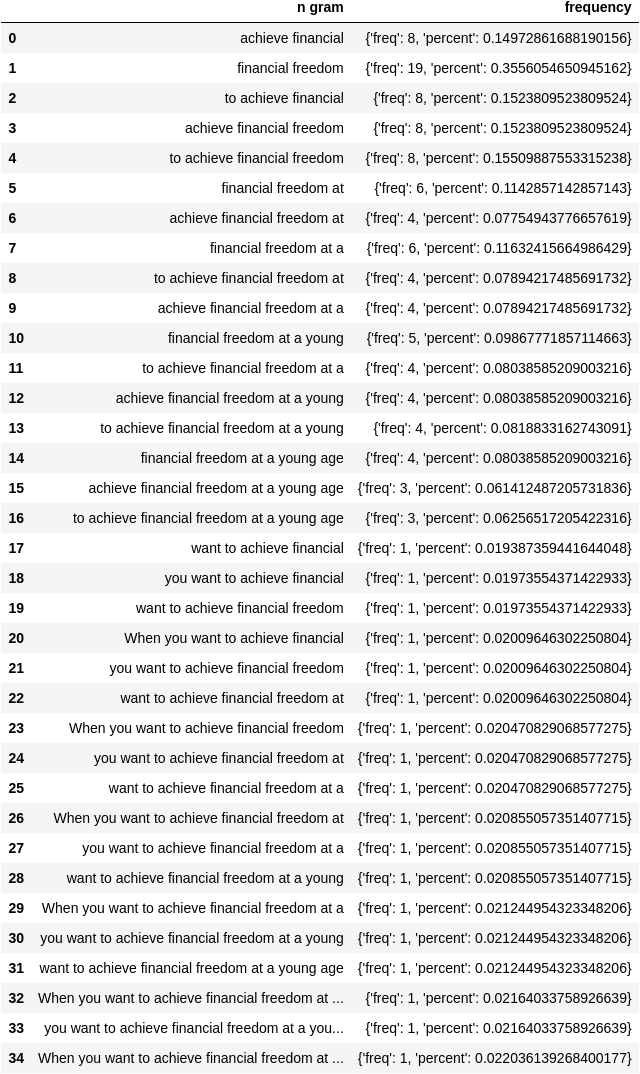
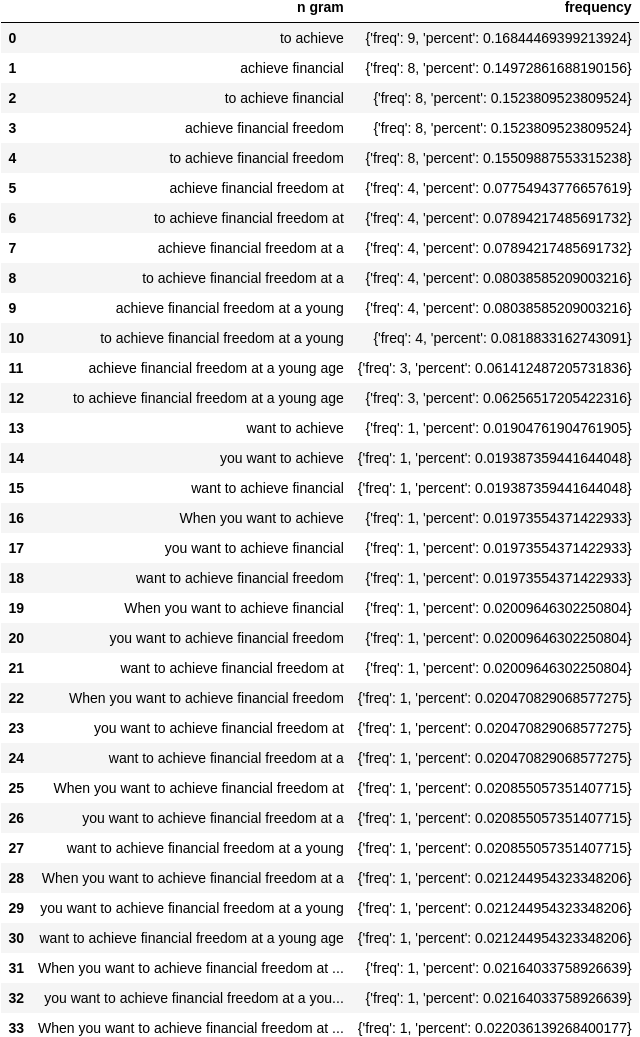
Find achieve

Changed region(s): [[0.5625, 0.0, 1.0, 1.0], [0.0, 0.0, 0.5312, 1.0]]

diff --git a/index.py b/index.py
@@ -26,7 +26,7 @@ def findNGram(corpus, cover, result = {}, maxCount = {}):
         while index + n <= len(arrayCorpus):
             nGramCorpus = arrayCorpus[index:index+n]
             if (' '.join(nGramCover) == ' '.join(nGramCorpus)):
-                if ('financial' in ' '.join(nGramCover)):
+                if ('achieve' in ' '.join(nGramCover)):
                     nGram = str(n) + ' gram'
                     try:
                         result[' '.join(nGramCorpus)]['freq'] += 1
